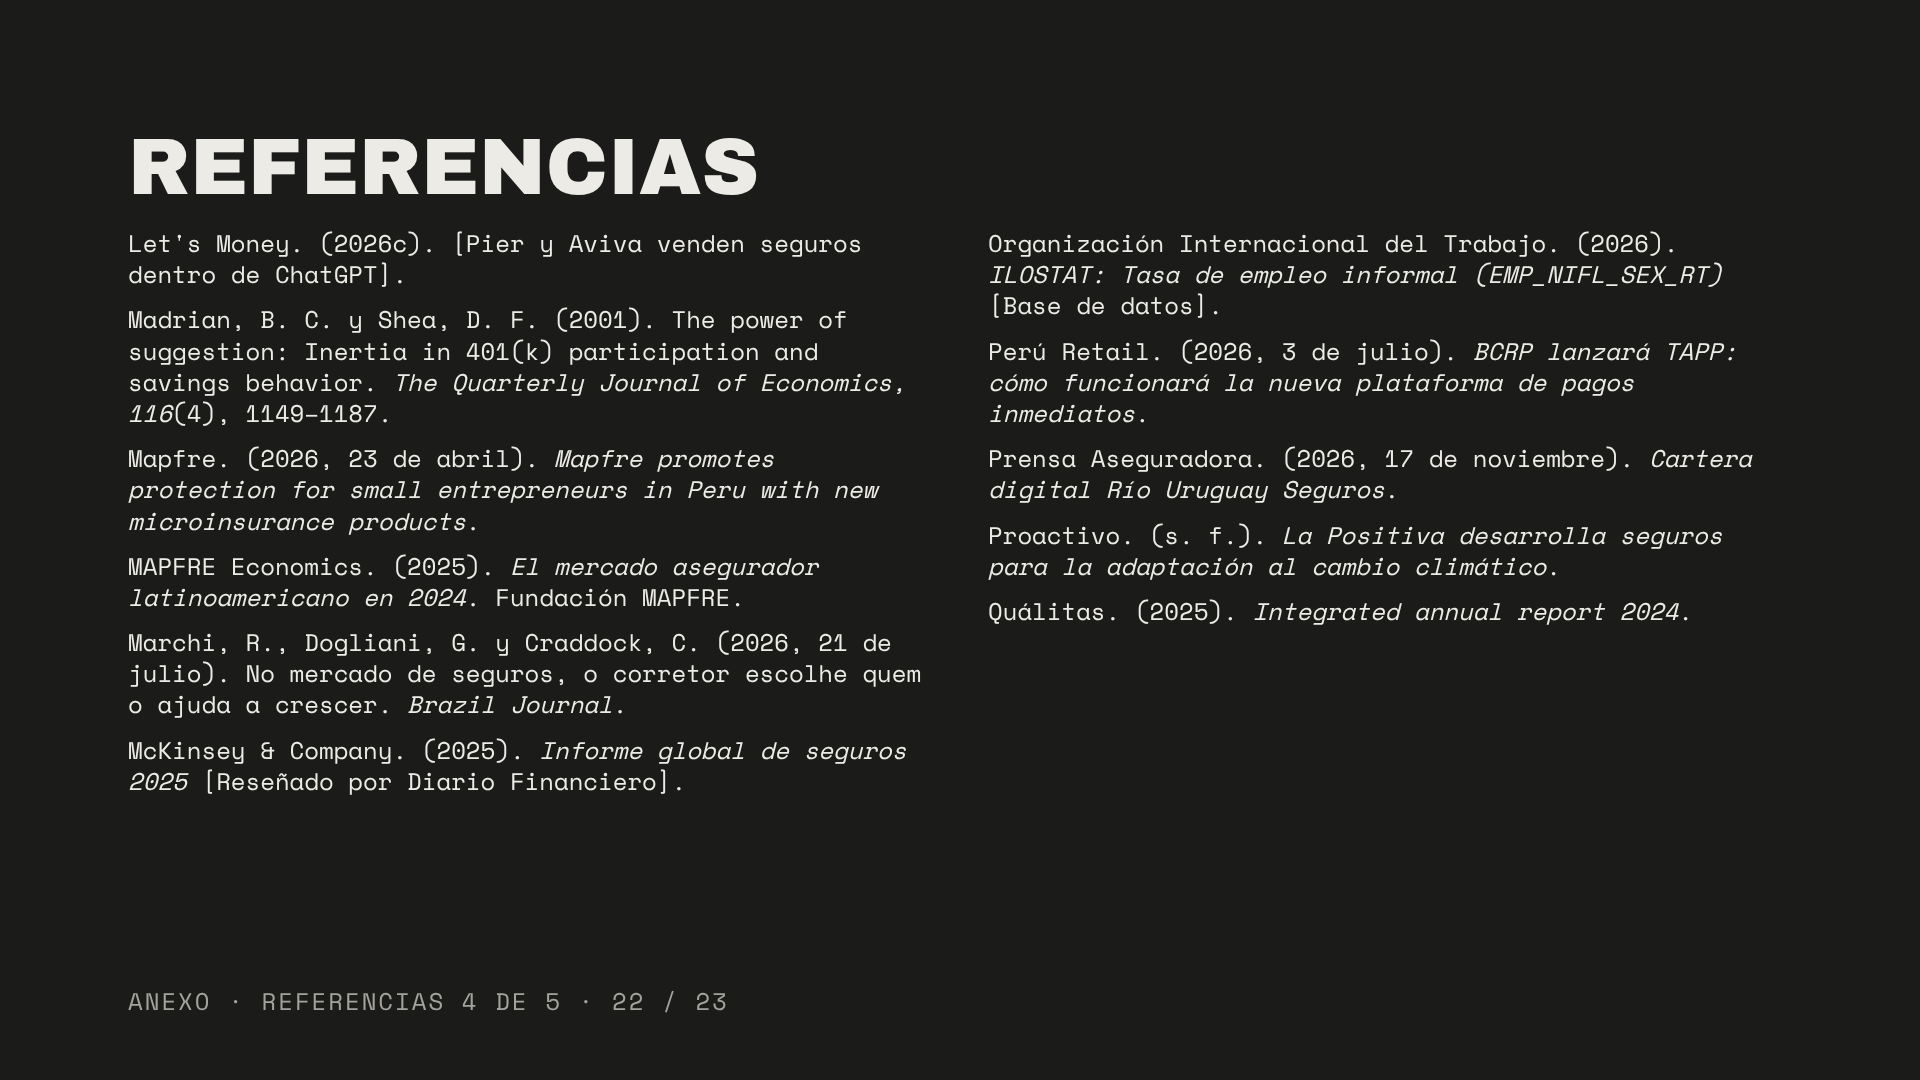
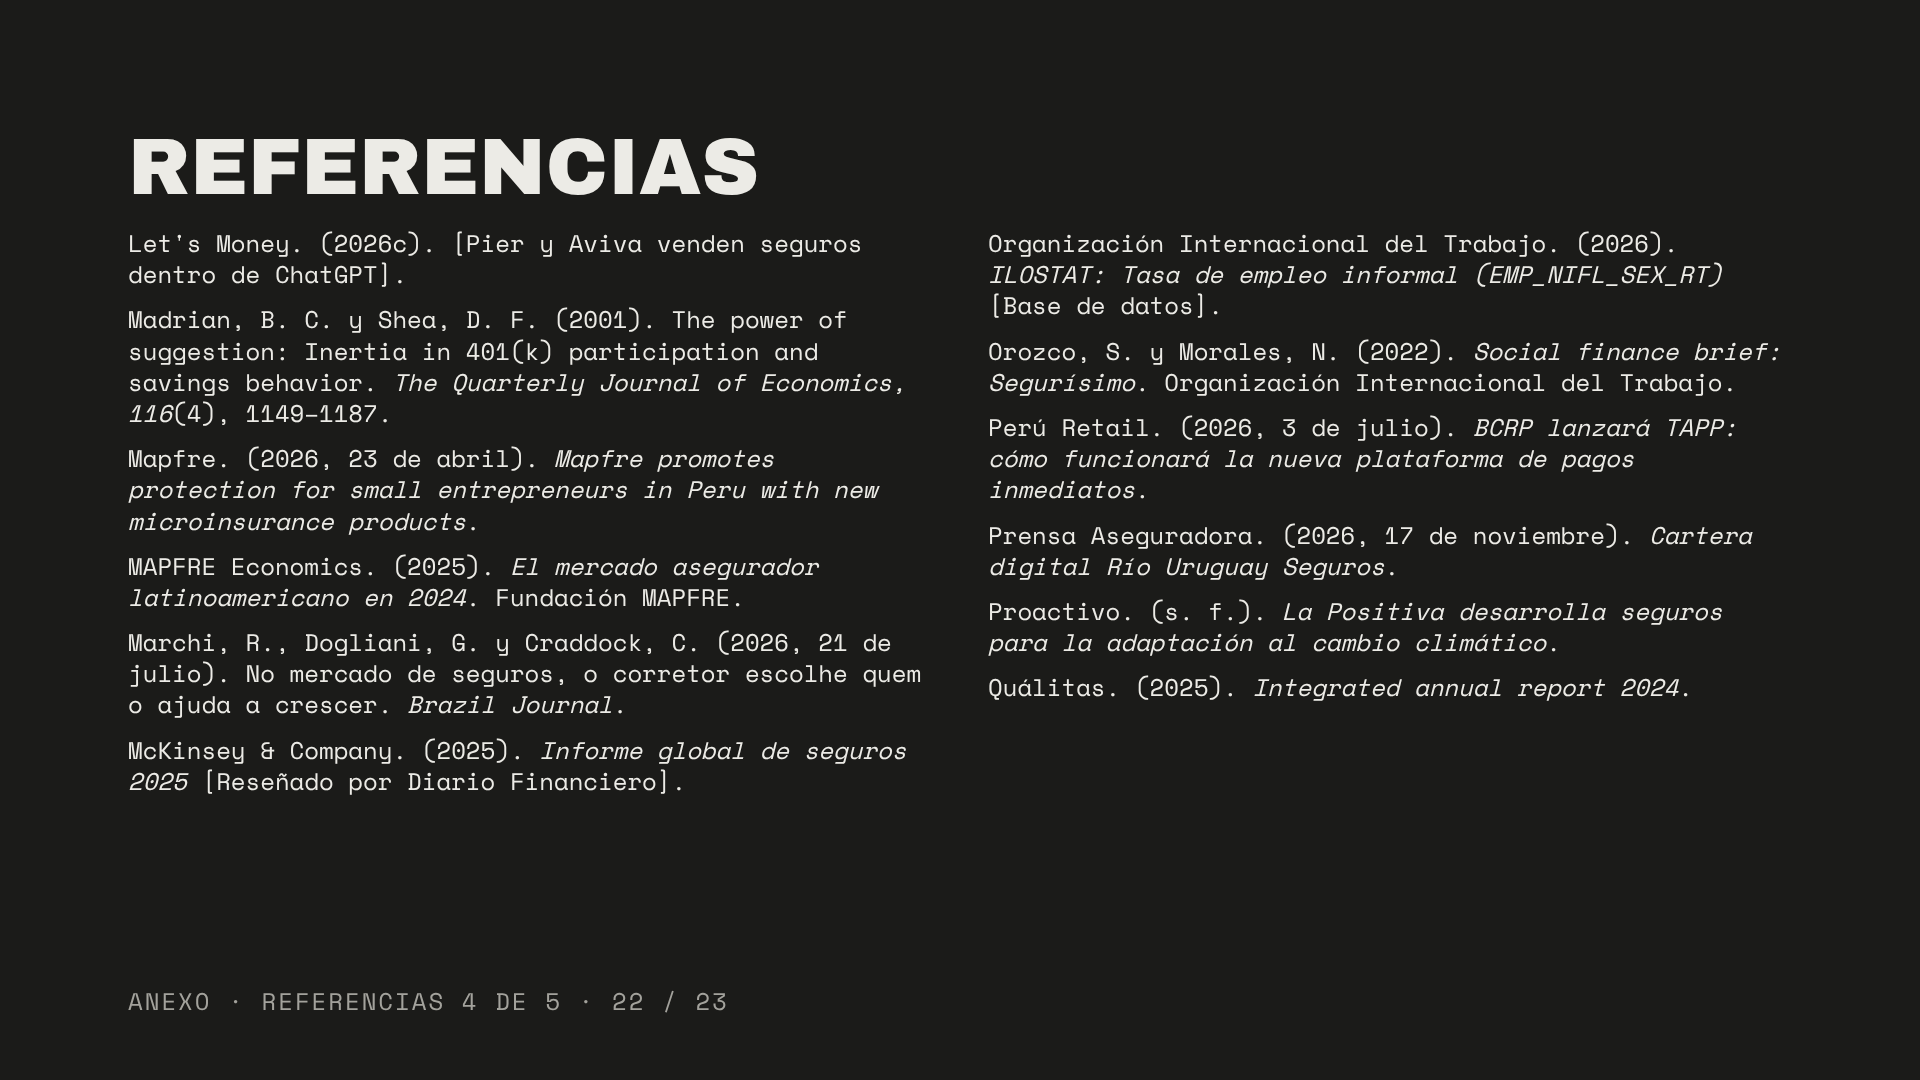
Suma a las conclusiones las preguntas de investigación para Perú
Claude-Session: https://claude.ai/code/session_0172Gzwbb2YLHGW14wEzAdeb

Changed region(s): [[0.5, 0.3056, 0.9062, 0.6417], [0.8438, 0.6111, 0.875, 0.6417]]

diff --git a/reports/presentacion-sudamerica/monocromo/project/slides/conclusiones.html b/reports/presentacion-sudamerica/monocromo/project/slides/conclusiones.html
@@ -1,15 +1,26 @@
 <section id="conclusiones" class="inv" data-transition="fade">
 <h2 class="t">Conclusiones</h2>
-<div style="display:grid;grid-template-columns:1fr 1fr 1fr;gap:28px 48px">
-<div class="card"><p class="k">01 · El freno es el seguro, no el pago</p><p class="txt">Perú es informal (29,5% formal) y compra poco seguro (1,7% del PBI), pero 51,7% ya paga en digital.</p></div>
-<div class="card"><p class="k">02 · En los parecidos, el canal de otro</p><p class="txt">Seguros Mundial vende en apps ajenas (1,8 M de pólizas) y Quálitas atiende 28% de los siniestros con fotos.</p></div>
-<div class="card"><p class="k">03 · En el horizonte, escala y medición</p><p class="txt">Southbridge tiene 25% del SOAP; Porto abre 70% de los avisos de robo con IA; Allianz Türkiye mide €20 M de valor.</p></div>
-<div class="card"><p class="k">04 · El corredor se equipa</p><p class="txt">Bradesco atiende a más de 1.200 corredores con IA, y Río Uruguay Seguros suma 67% más productores cotizando en digital.</p></div>
-<div class="card"><p class="k">05 · El cobro llega en 2027</p><p class="txt">Con inscripción por defecto, la participación en ahorro sube de 37% a 86%. TAPP opera en Perú desde 2027.</p></div>
-<div class="card"><p class="k">06 · La competencia ya está en Yape y WhatsApp</p><p class="txt">Pero lo embebido es menos de 1% del portafolio de Pacífico, y las usuarias resuelven por WhatsApp y pagan en el banco.</p></div>
+<div style="display:grid;grid-template-columns:700px 1fr;gap:56px">
+<div class="col">
+<p class="k">Lo que concluimos</p>
+<p class="txt"><b>El freno es el seguro, no el pago.</b> 1,7% del PBI en seguros; 51,7% ya paga en digital.</p>
+<p class="txt"><b>Parecidos: el canal de otro.</b> 1,8 M de pólizas en apps aliadas; 28% de siniestros con fotos.</p>
+<p class="txt"><b>Horizonte: escala y medición.</b> 25% del SOAP chileno; 70% de avisos con IA; €20 M de valor.</p>
+<p class="txt"><b>El corredor se equipa.</b> Más de 1.200 corredores con IA; 67% más productores en digital.</p>
+<p class="txt"><b>El cobro llega en 2027.</b> TAPP opera desde 2027; la opción por defecto sube la adhesión.</p>
+<p class="txt"><b>La competencia está en Yape y WhatsApp,</b> pero lo embebido es menos de 1% en Pacífico.</p>
+</div>
+<div class="col">
+<p class="k">Qué investigar en Perú antes de decidir</p>
+<div><p class="txt"><b>¿Comprar un seguro «llama la desgracia» también aquí?</b></p><p class="dim">En Colombia, parte de la población lo cree.</p></div>
+<div><p class="txt"><b>¿Por qué la familia le gana al seguro?</b></p><p class="dim">39,4% recurriría a la familia en una emergencia; solo 10,2% paga a una aseguradora.</p></div>
+<div><p class="txt"><b>¿Qué haría que la salud se asegure y no se pague con deuda?</b></p><p class="dim">16,3% pidió prestado para salud; para 27,2%, los gastos médicos son la mayor preocupación.</p></div>
+<div><p class="txt"><b>¿Por qué ahorra, pero fuera del sistema?</b></p><p class="dim">44,0% ahorró en el último año; solo 31,4% en un banco, financiera o billetera.</p></div>
+<div><p class="txt"><b>¿En qué canal confía para pagar y para avisar?</b></p><p class="dim">Las entrevistadas pagan desde su banco y prefieren WhatsApp con una persona.</p></div>
+</div>
 </div>
 <div class="spacer"></div>
-<div class="strip"><p class="txt"><b>LECTURA NUESTRA</b> · A Perú no le falta tecnología: le falta poner la puerta de entrada donde ya está el cliente y medir el valor en dinero, no en usuarios de la app.</p></div>
+<p class="src">Banco Mundial (2025), Global Findex, Perú 2024 · Orozco y Morales (2022) · RIMAC (2026b)</p>
 <p class="foot">Conclusiones · 18 / 23</p>
-<aside>Qué decir: seis conclusiones. Uno: el freno es el seguro, no el pago. Perú tiene 29,5% de trabajadores formales y compra 1,7% del PBI en seguros sin primas de seguridad social, frente a 2,7% de América Latina, pero 51,7% de sus adultos ya paga en digital y 42,5% tiene dinero móvil (OIT, 2026; MAPFRE Economics, 2025; Banco Mundial, 2025). Dos: en los países que se parecen a Perú, las aseguradoras capturan valor en el canal de otro y quitando trámite: Seguros Mundial emitió más de 1,8 millones de pólizas con aliados como Nequi y Rappi (Semana, 2026), Quálitas atendió 28% de sus siniestros de 2024 con fotos, sin ajustador (Quálitas, 2025), y SURA México responde a sus intermediarios en 8 minutos en lugar de 20 horas (Darío Celis, 2026). Tres: en el horizonte, lo digital ya tiene escala y alguien lo mide: Southbridge vendió 25% del SOAP chileno (Diario Financiero, 2025), Porto abre con IA 70% de sus avisos de robo de autos (Revista Apólice, 2026) y Allianz Türkiye declara más de €20 millones de valor con €15 millones invertidos (Allianz Türkiye, 2026). Cuatro: el corredor no desaparece, se equipa: Bradesco Seguros atiende a más de 1.200 corredores con IA y especialistas (CQCS, 2026a), Río Uruguay Seguros suma 67% más productores cotizando en digital (Prensa Aseguradora, 2026), y la aseguradora preferida de un corredor recibe 4 veces más primas que la tercera (Marchi, Dogliani y Craddock, 2026). Cinco: el cobro es la palanca con más evidencia: con la opción por defecto la participación sube de 37% a 86% (Madrian y Shea, 2001), y TAPP opera en Perú desde 2027 (Vodanovic, 2026); en Perú debe ser con elección activa. Seis: la competencia ya está en la billetera y en WhatsApp, pero lo embebido es menos de 1% del portafolio de Pacífico (Gestión, 2026b), y las usuarias entrevistadas resuelven el siniestro por WhatsApp y pagan desde su banco (RIMAC, 2026b). Lectura nuestra: a Perú no le falta tecnología, le falta poner la puerta de entrada donde ya está el cliente y medir el valor en dinero, no en usuarios activos de la app. Puente: las referencias completas están en el anexo.</aside>
+<aside>Qué decir: a la izquierda, seis conclusiones. Uno: el freno es el seguro, no el pago; Perú tiene 29,5% de trabajadores formales y compra 1,7% del PBI en seguros sin primas de seguridad social, frente a 2,7% de América Latina, pero 51,7% de sus adultos ya paga en digital (OIT, 2026; MAPFRE Economics, 2025; Banco Mundial, 2025). Dos: en los países parecidos, las aseguradoras capturan valor en el canal de otro y quitando trámite: Seguros Mundial emitió más de 1,8 millones de pólizas con aliados (Semana, 2026) y Quálitas atendió 28% de sus siniestros de 2024 con fotos (Quálitas, 2025). Tres: en el horizonte, escala y medición: Southbridge vendió 25% del SOAP chileno (Diario Financiero, 2025), Porto abre con IA 70% de sus avisos de robo (Revista Apólice, 2026) y Allianz Türkiye declara más de €20 millones de valor (Allianz Türkiye, 2026). Cuatro: el corredor se equipa: Bradesco atiende a más de 1.200 corredores con IA y especialistas (CQCS, 2026a) y Río Uruguay Seguros suma 67% más productores cotizando en digital (Prensa Aseguradora, 2026). Cinco: TAPP opera en Perú desde 2027 (Vodanovic, 2026), y la inscripción por defecto sube la participación en ahorro de 37% a 86% (Madrian y Shea, 2001); en Perú, con elección activa. Seis: la competencia está en Yape y WhatsApp, pero lo embebido es menos de 1% del portafolio de Pacífico (Gestión, 2026b). A la derecha, qué investigar antes de decidir, porque lo que funciona afuera depende de creencias y hábitos locales. Uno: en Colombia, parte de la población cree que comprar un seguro «llama la desgracia» (Orozco y Morales, 2022); no sabemos si esa creencia existe en Perú ni cuánto pesa. Dos: la familia es la primera red: 39,4% de los adultos peruanos recurriría a la familia ante una emergencia y 20,8% pidió prestado a familiares o amigos, mientras solo 10,2% paga con regularidad a una aseguradora. Tres: la salud se financia con deuda: 16,3% pidió prestado para gastos de salud y, para 27,2%, los gastos médicos graves son la mayor preocupación. Cuatro: 44,0% ahorró en el último año, pero solo 31,4% lo hizo en una institución o billetera; y solo 17,8% usaría sus ahorros ante una emergencia. Cinco: las dos entrevistadas pagan su seguro desde el banco y prefieren resolver el siniestro por WhatsApp con una persona (RIMAC, 2026b). Las cifras de Perú vienen del Global Findex 2025 del Banco Mundial, datos de 2024 (indicadores fin24fam, fin22b, fin19, fin22d, fin45c, save.any.t.d, fin17a.17a1.d y fin24sav). Son preguntas, no hallazgos. Puente: las referencias completas están en el anexo.</aside>
 </section>

diff --git a/reports/presentacion-sudamerica/monocromo/project/slides/referencias-4.html b/reports/presentacion-sudamerica/monocromo/project/slides/referencias-4.html
@@ -11,6 +11,7 @@
 </div>
 <div class="refcol">
 <p class="ref">Organización Internacional del Trabajo. (2026). <i>ILOSTAT: Tasa de empleo informal (EMP_NIFL_SEX_RT)</i> [Base de datos].</p>
+<p class="ref">Orozco, S. y Morales, N. (2022). <i>Social finance brief: Segurísimo</i>. Organización Internacional del Trabajo.</p>
 <p class="ref">Perú Retail. (2026, 3 de julio). <i>BCRP lanzará TAPP: cómo funcionará la nueva plataforma de pagos inmediatos</i>.</p>
 <p class="ref">Prensa Aseguradora. (2026, 17 de noviembre). <i>Cartera digital Río Uruguay Seguros</i>.</p>
 <p class="ref">Proactivo. (s. f.). <i>La Positiva desarrolla seguros para la adaptación al cambio climático</i>.</p>
@@ -18,5 +19,5 @@
 </div>
 </div>
 <p class="foot">Anexo · Referencias 4 de 5 · 22 / 23</p>
-<aside>Formato APA 7. Enlaces: Let's Money (2026c), sin título verificado: https://www.letsmoney.com.br/ia/pier-integra-seguros-chatgpt-distribuicao/ · Madrian y Shea (2001): https://doi.org/10.1162/003355301753265543 · Mapfre (2026): https://www.mapfre.com/en/communicate/sustainability-communicate/entrepreneurs-peru-microinsurance/ · MAPFRE Economics (2025): https://www.mapfre.com/media/MAPFRE-Economics_Mercado-Latam-2024_05.11.2025-REDUCIDO.pdf · Marchi, Dogliani y Craddock (2026): https://braziljournal.com/on-business/no-mercado-de-seguros-o-corretor-escolhe-quem-o-ajuda-a-crescer/ · McKinsey &amp; Company (2025), reseña de Diario Financiero: https://www.df.cl/mercados/seguros/america-latina-lidera-crecimiento-global-en-seguros-y-abre-espacio-para · Organización Internacional del Trabajo (2026): https://ilostat.ilo.org/ · Perú Retail (2026): https://www.peru-retail.com/bcrp-lanzara-tapp-como-funcionara-la-nueva-plataforma-de-pagos-inmediatos/ · Prensa Aseguradora (2026): https://www.prensaaseguradora.com/post/cartera-digital-r%C3%ADo-uruguay-seguros · Proactivo (s. f.): https://proactivo.com.pe/la-positiva-desarrolla-seguros-para-la-adaptacion-al-cambio-climatico/ · Quálitas (2025): https://qinversionistas.qualitas.com.mx/uploads/informes/2024/anual/en/IA_Qualitas_2024_FINAL_ING.pdf</aside>
+<aside>Formato APA 7. Enlaces: Let's Money (2026c), sin título verificado: https://www.letsmoney.com.br/ia/pier-integra-seguros-chatgpt-distribuicao/ · Madrian y Shea (2001): https://doi.org/10.1162/003355301753265543 · Mapfre (2026): https://www.mapfre.com/en/communicate/sustainability-communicate/entrepreneurs-peru-microinsurance/ · MAPFRE Economics (2025): https://www.mapfre.com/media/MAPFRE-Economics_Mercado-Latam-2024_05.11.2025-REDUCIDO.pdf · Marchi, Dogliani y Craddock (2026): https://braziljournal.com/on-business/no-mercado-de-seguros-o-corretor-escolhe-quem-o-ajuda-a-crescer/ · McKinsey &amp; Company (2025), reseña de Diario Financiero: https://www.df.cl/mercados/seguros/america-latina-lidera-crecimiento-global-en-seguros-y-abre-espacio-para · Organización Internacional del Trabajo (2026): https://ilostat.ilo.org/ · Orozco y Morales (2022): https://www.ilo.org/publications/social-finance-brief-segurisimo · Perú Retail (2026): https://www.peru-retail.com/bcrp-lanzara-tapp-como-funcionara-la-nueva-plataforma-de-pagos-inmediatos/ · Prensa Aseguradora (2026): https://www.prensaaseguradora.com/post/cartera-digital-r%C3%ADo-uruguay-seguros · Proactivo (s. f.): https://proactivo.com.pe/la-positiva-desarrolla-seguros-para-la-adaptacion-al-cambio-climatico/ · Quálitas (2025): https://qinversionistas.qualitas.com.mx/uploads/informes/2024/anual/en/IA_Qualitas_2024_FINAL_ING.pdf</aside>
 </section>
